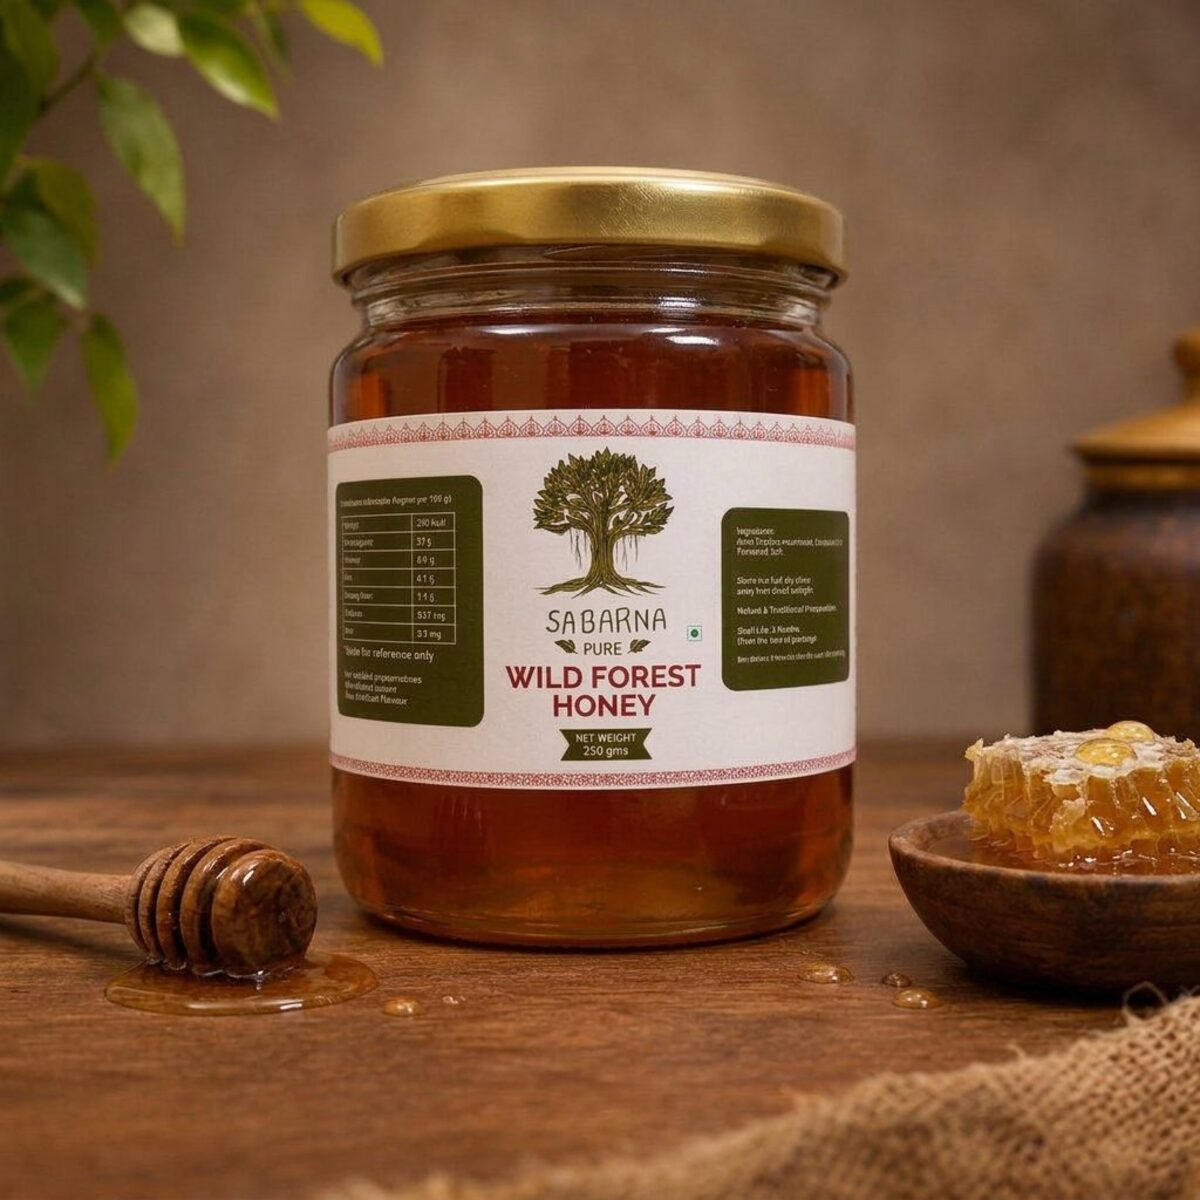
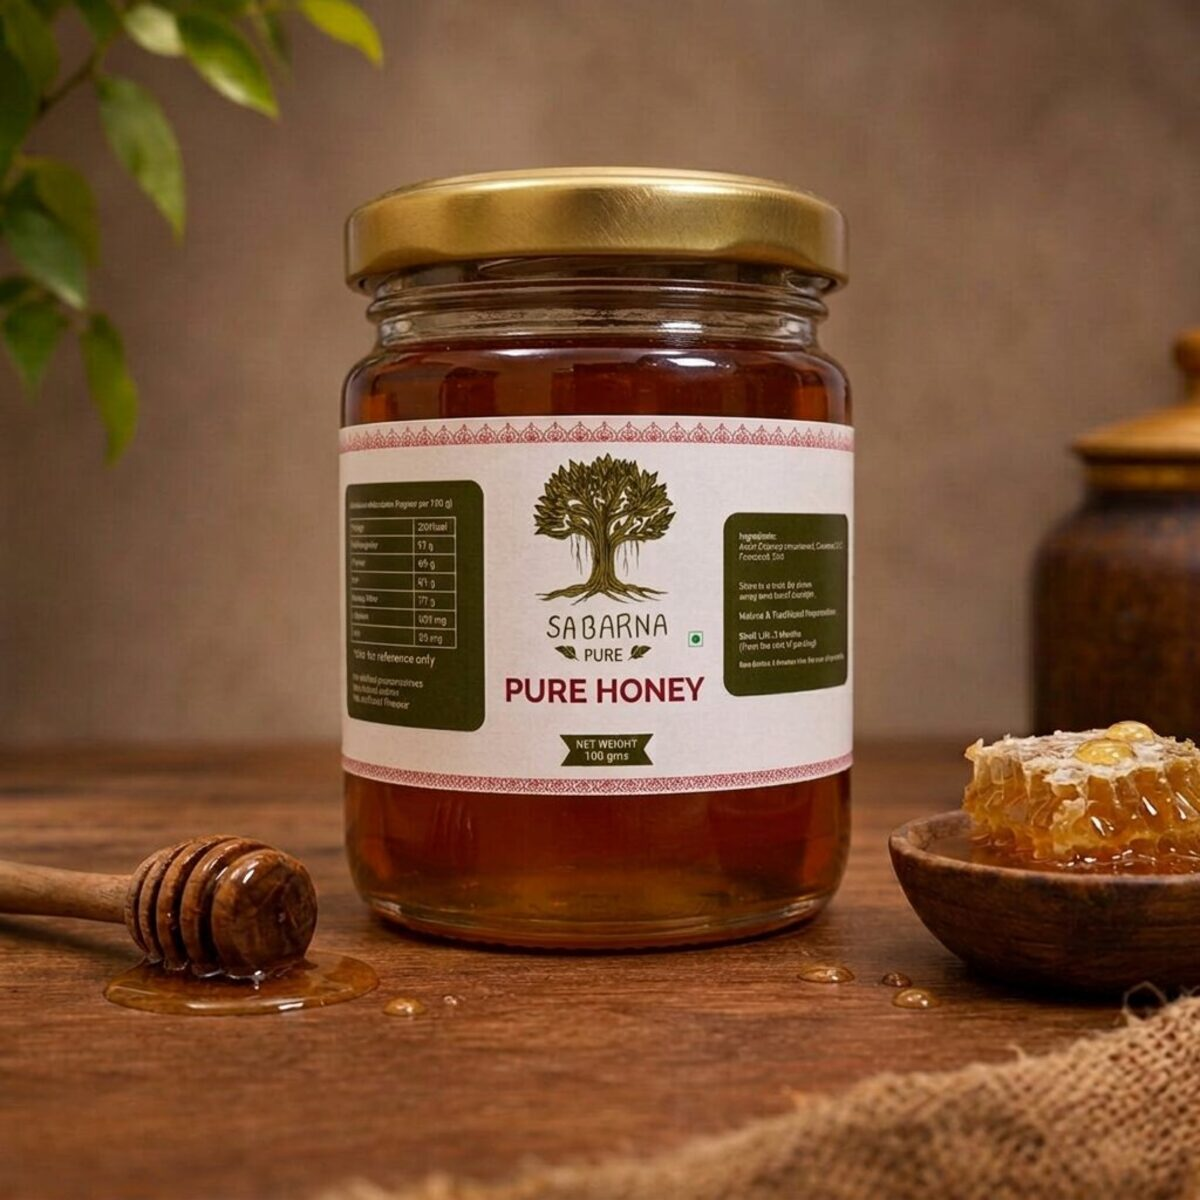
Copy: the story, the FAQ, the hero and the alt text now describe pickles, bori and honey - not ghee

diff --git a/Data/DbSeeder.cs b/Data/DbSeeder.cs
@@ -28,6 +28,7 @@ public static class DbSeeder
         await SeedProductsAsync(db);
         // saptarshi: 16-Nov-2026 — the shop now sells the owner's real price list, not the demo shelf.
         await SeedRealCatalogueAsync(db);
+        await RefreshHeroCopyAsync(db);
         await SeedOrdersAsync(db);
     }
 
@@ -44,7 +45,8 @@ public static class DbSeeder
         db.Settings.Add(new SiteSetting
         {
             BrandName = "Sabarna Pure",
-            Tagline = "Small-batch ghee, honey & pickles",
+            // saptarshi: 16-Nov-2026 — the price list is pickles, bori and honey.
+            Tagline = "Small-batch achar, bori & wild honey",
             Logo = "/images/logo-mark.png",
             // saptarshi: 13-Nov-2026 — the shop's real contact details.
             Email = "orders.sabarna@gmail.com",
@@ -52,11 +54,11 @@ public static class DbSeeder
             Whatsapp = "918910111809",
             Address = "Sabarna Small Farms, P.O. Kharagpur, West Bengal 721301",
             HeroKicker = "Farm to home · since 2016",
-            HeroTitle1 = "Ghee that still",
-            HeroTitle2 = "smells of the farm",
-            HeroText = "We are a family of eleven from Midnapore who make bilona ghee, wild forest honey "
-                     + "and sun-cured pickles in batches small enough to know every jar by hand. "
-                     + "No refining, no preservatives, no promises we cannot keep.",
+            HeroTitle1 = "Achar, bori and honey",
+            HeroTitle2 = "from one kitchen",
+            HeroText = "We are a family of eleven from Midnapore who sun-cure pickles, hand-shape dal bori "
+                     + "and bottle wild forest honey in batches small enough to know every jar by hand. "
+                     + "No preservatives, no promises we cannot keep.",
             UpdatedAt = DateTime.UtcNow
         });
 
@@ -567,6 +569,53 @@ public static class DbSeeder
 
         db.Products.AddRange(products);
         await db.SaveChangesAsync();
+    }
+
+    // -----------------------------------------------------------------------------------------
+    // 2b. The home page copy still talked about ghee. saptarshi: 16-Nov-2026
+    //
+    // A database seeded before today carries the old hero text, and the hero is read from the
+    // database, not from this file. So the old wording is replaced — but ONLY where the value is
+    // still character-for-character the default we seeded. The moment the owner edits a line on
+    // /Admin/Settings this method leaves it alone forever.
+    // -----------------------------------------------------------------------------------------
+    private static async Task RefreshHeroCopyAsync(AppDbContext db)
+    {
+        var settings = await db.Settings.FirstOrDefaultAsync();
+        if (settings == null)
+        {
+            return;
+        }
+
+        var changed = false;
+
+        if (settings.Tagline == "Small-batch ghee, honey & pickles")
+        {
+            settings.Tagline = "Small-batch achar, bori & wild honey";
+            changed = true;
+        }
+
+        if (settings.HeroTitle1 == "Ghee that still" && settings.HeroTitle2 == "smells of the farm")
+        {
+            settings.HeroTitle1 = "Achar, bori and honey";
+            settings.HeroTitle2 = "from one kitchen";
+            changed = true;
+        }
+
+        if (settings.HeroText?.StartsWith("We are a family of eleven from Midnapore who make bilona ghee",
+                StringComparison.Ordinal) == true)
+        {
+            settings.HeroText = "We are a family of eleven from Midnapore who sun-cure pickles, hand-shape "
+                              + "dal bori and bottle wild forest honey in batches small enough to know every "
+                              + "jar by hand. No preservatives, no promises we cannot keep.";
+            changed = true;
+        }
+
+        if (changed)
+        {
+            settings.UpdatedAt = DateTime.UtcNow;
+            await db.SaveChangesAsync();
+        }
     }
 
     // -----------------------------------------------------------------------------------------

diff --git a/HANDOVER.md b/HANDOVER.md
@@ -19,8 +19,14 @@ back to the project; `README.md` explains how it works, `DEPLOY-CHECKLIST.md` li
 **Storefront.** Home (dark hero, category strip, featured products, CSS-only motion band, testimonials,
 orange batch-notes band, WhatsApp only — there is no email newsletter), Shop with search, category and price filters plus sorting, product details with
 related items, combos page, session cart, checkout, order confirmation, about, contact, the four
-policy pages, and a branded error page. 13 seeded products: ghee in three sizes, two honeys, two
-pickles, mustard oil, and three jaggery items (powder, blocks, Ghee + Gur combo), plus three combos.
+policy pages, and a branded error page.
+
+**The shelf (16-Nov-2026):** the shop sells the owner's real price list and nothing else — four dal
+bori (biuli, matar, moshla, musur), four pickles in 250 g and 500 g (amsi, mango spicy, kul, mixed)
+and one 100 g honey. The ghee / oil / jaggery / combo rows the shop was demo-seeded with are still in
+the database but switched off (`Active = false`): old orders point at them. `SeedRealCatalogueAsync`
+in `Data/DbSeeder.cs` does this once — the "Bori" shelf is its marker, so it never re-adds a product
+the owner deletes, and it only ever hides rows it created itself.
 
 **Cart and orders.** Session JSON cart that survives a refresh, quantity clamped 1–20, free delivery
 over ₹999 else ₹49, payment restricted server-side to UPI / Card / Netbanking (no cash on delivery

diff --git a/README.md b/README.md
@@ -1,10 +1,10 @@
-# Sabarna — farm-fresh ghee, honey & pickles
+# Sabarna — Bengali achar, dal bori & wild honey
 
 A complete, production-shaped e-commerce site for a small Indian farm food business, built with
 **ASP.NET Core 8 MVC + Razor views + Bootstrap 5.3.3**. Server-rendered, no JavaScript framework,
 no CDN, no payment-gateway dependency to run it locally.
 
-* **Brand:** Sabarna (ghee, honey, pickles, cold-pressed oil)
+* **Brand:** Sabarna (pickles, dal bori, wild honey) — the shelf is the owner's price list, nothing else
 * **Market:** India — all prices in ₹ (INR), GST included
 * **Payments:** online only — UPI, cards, netbanking. **Cash on delivery is not offered anywhere.**
 * **Cart:** session based, no login needed
